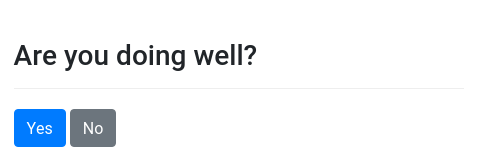
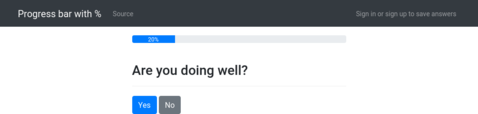
image for example

diff --git a/_docs/changelog.md b/_docs/changelog.md
@@ -7,7 +7,7 @@ short_title: Change Log
 ## [0.2.92](https://github.com/jhpyle/docassemble/releases/tag/v0.2.92) - 2018-08-27
 
 ### Added
-- The `progress bar percentage` feature.
+- The `show progress bar percentage` feature.
 
 ### Changed
 - The `background_response()` function can be called using
